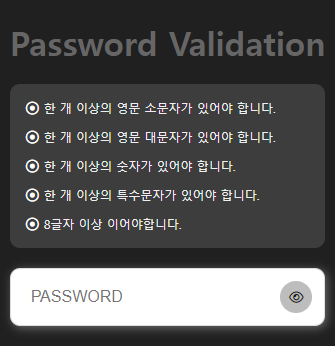
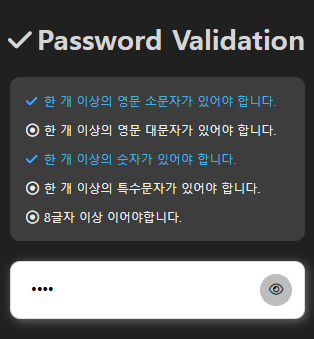
init

diff --git a/index.html b/index.html
@@ -13,7 +13,7 @@
 <div class="validate">
     <h1 class="tit">Password Validation</h1>
     <div class="pass">
-        <input type="password" class="pwds" placeholder="PASSWORD" autocomplete="off">
+        <input type="password" class="pwds" placeholder="PASSWORD">
         <button type="button" class="btog">비밀번호표시</button>
     </div>
     <ul class="msgs">
@@ -38,31 +38,34 @@ const validate = {
     },
     check: function(txt){
         console.log(txt);
-        const lowr = new RegExp('(?=.*[a-z])'); /* 소문자포함 */
-        const uper = new RegExp('(?=.*[A-Z])'); /* 대문자포함 */
-        const numb = new RegExp('(?=.*[0-9])'); /* 숫자포함 */
-        const spcl = new RegExp('(?=.*[~!@#\$%\^&\*])'); /* 특수문자포함 */
-        const leng = new RegExp('(?=.{8,})');   /* 8자이상 */
+        const _lowr = new RegExp('(?=.*[a-z])'); /* 소문자포함 */
+        const _uper = new RegExp('(?=.*[A-Z])'); /* 대문자포함 */
+        const _numb = new RegExp('[0-9]'); /* 숫자포함 */
+        const _spcl = new RegExp('(?=.*[~!@#\$%\^&\*])'); /* 특수문자포함 */
+        const _leng = new RegExp('(?=.{8,})');   /* 8자이상 */
 
-        const $lowr = document.querySelector("li.lowr");
-        const $uper = document.querySelector("li.uper");
-        const $numb = document.querySelector("li.numb");
-        const $spcl = document.querySelector("li.spcl");
-        const $leng = document.querySelector("li.leng");
+        const lowr = document.querySelector("li.lowr");
+        const uper = document.querySelector("li.uper");
+        const numb = document.querySelector("li.numb");
+        const spcl = document.querySelector("li.spcl");
+        const leng = document.querySelector("li.leng");
 
-        lowr.test(txt) ? $lowr.classList.add("check") : $lowr.classList.remove("check");
-        uper.test(txt) ? $uper.classList.add("check") : $uper.classList.remove("check");
-        numb.test(txt) ? $numb.classList.add("check") : $numb.classList.remove("check");
-        spcl.test(txt) ? $spcl.classList.add("check") : $spcl.classList.remove("check");
-        leng.test(txt) ? $leng.classList.add("check") : $leng.classList.remove("check");
+        const show = el => el.classList.remove("check");
+        const hide = el => el.classList.add("check");
+        
+        _lowr.test(txt) ? hide(lowr) : show(lowr);
+        _uper.test(txt) ? hide(uper) : show(uper);
+        _numb.test(txt) ? hide(numb) : show(numb);
+        _spcl.test(txt) ? hide(spcl) : show(spcl);
+        _leng.test(txt) ? hide(leng) : show(leng);
     },
     togs: function(){
         if( this.pwds.type == "password" ){
             this.pwds.setAttribute("type","text");
-            this.btog.classList.add("hide");
+            this.btog.classList.add("view");
         }else{
             this.pwds.setAttribute("type","password");
-            this.btog.classList.remove("hide");
+            this.btog.classList.remove("view");
         }
     }
 };

diff --git a/style.css b/style.css
@@ -3,18 +3,16 @@
 html{ height: 100%; }   
 body{background-color: #202020;touch-action: pan-y;color: #666666;display: flex;align-items: center;height: 100%;}
 .validate{margin: auto auto;padding: 10px 10px;display: flex;flex-direction: column;justify-content: space-between;}
-.validate .tit{font-size: 28px;font-weight: 700;text-align: center;margin: 10px 0 10px 0;position: relative;padding: 0px 0px 0px 27px;color: #cfa83b;}
+.validate .tit{font-size: 28px;font-weight: 700;/* text-align: center; */margin: 10px 0 10px 0;position: relative;padding: 0px 0px 0px 27px;color: #d5d5d5;}
 .validate .tit::before{content: '\f00c';font-family: "fontAwesome";font-size: 27px;position: absolute;left: -2px;top: 6px;/* color: #cfa83b; */}
 .validate .pass{order: 2;position: relative;box-shadow: rgb(255 255 255 / 35%) 2px 2px 10px;border-radius: 10px;background: rgb(255 255 255);border: #8787874a solid 1px;margin: 10px 0px;}
 .validate .pass .pwds{border: none;font-size: 16px;color: #000000;padding: 7px 48px 7px 20px;height: 56px;width: 100%;border-radius: 10px;background: transparent;}
 .validate .pass .pwds:focus{outline: none;background-color: #fffdf4;}
 .validate .pass .btog{border: none;font-size: 0px;color: #161616;padding: 7px 6px;height: 32px;width: 32px;border-radius: 20px;position: absolute;right: 12px;top: 12px;background-color: rgb(189 189 189);}
 .validate .pass .btog::before{content:'\f06e'; font-family: "fontAwesome"; font-size:13px;}
-.validate .pass .btog.hide::before{content:'\f070';}
-.validate .msgs{order: 1;background: rgb(90 90 90 / 50%);padding: 16px;margin: 10px 0;color: #efefef;font-size: 14px;border-radius: 10px;display: flex;flex-direction: column;gap: 13px;}
-.validate .msgs>li{list-style: none;font-size: 12px;position: relative;padding: 0px 0px 0px 18px;}
-.validate .msgs>li::before{content:'\f192';font-family: "fontAwesome"; font-size:13px;margin: 0px 4px 0px 0px;/* color: #ffffff; */display: inline-flex;width: 13px;position: absolute;left: 0px;top: 2px;}
-.validate .msgs>li.check{
-    color: #d3a830;
-}
+.validate .pass .btog.view::before{content:'\f070';}
+.validate .msgs{order: 1;background: rgb(90 90 90 / 50%);padding: 16px;margin: 10px 0;color: #efefef;font-size: 14px;border-radius: 10px;display: flex;flex-direction: column;gap: 13px;overflow: hidden;}
+.validate .msgs>li{list-style: none;font-size: 12px;position: relative;padding: 0px 0px 0px 18px;transition: all 0.5s;overflow: hidden;}
+.validate .msgs>li::before{content:'\f192';font-family: "fontAwesome"; font-size:13px;margin: 0px 4px 0px 0px; display: inline-flex;width: 13px;position: absolute;left: 0px;top: 2px;}
+.validate .msgs>li.check{color: #3eb4ed;}
 .validate .msgs>li.check::before{content:'\f00c';}

diff --git a/README.md b/README.md
@@ -5,11 +5,11 @@ https://youtu.be/Hi8DVOaZ0Ug
 
 
 ```js
-const lowr = new RegExp('(?=.*[a-z])'); /* 소문자포함 */
-const uper = new RegExp('(?=.*[A-Z])'); /* 대문자포함 */
-const numb = new RegExp('(?=.*[0-9])'); /* 숫자포함 */
-const spcl = new RegExp('(?=.*[~!@#\$%\^&\*])'); /* 특수문자포함 */
-const leng = new RegExp('(?=.{8,})');   /* 8자이상 */
+const _lowr = new RegExp('(?=.*[a-z])'); /* 소문자포함 */
+const _uper = new RegExp('(?=.*[A-Z])'); /* 대문자포함 */
+const _numb = new RegExp('[0-9]');       /* 숫자포함 */
+const _spcl = new RegExp('(?=.*[~!@#\$%\^&\*])'); /* 특수문자포함 */
+const _leng = new RegExp('(?=.{8,})');   /* 8자이상 */
 ```
 
 
